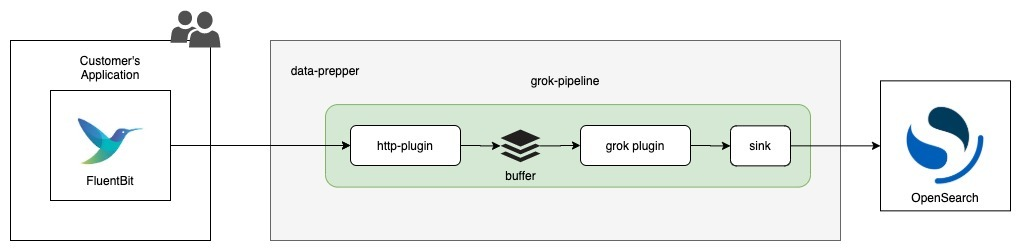
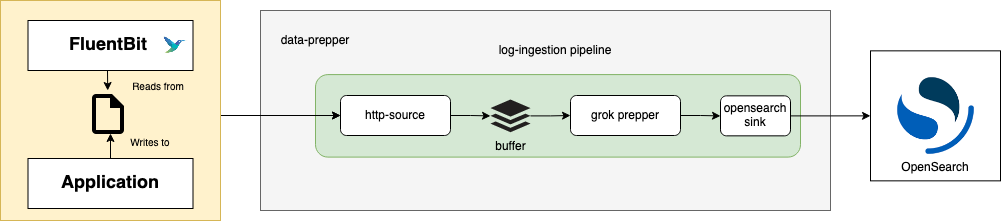
Log analytics getting started (#573)
Updated demo guide for running Data Prepper through Docker, and with FluentBit and OpenSearch through the same docker-compose; Created first draft for Getting Started Guide with Log Analytics

diff --git a/examples/log-ingestion/log_ingestion_demo_guide.md b/examples/log-ingestion/log_ingestion_demo_guide.md
@@ -1,6 +1,6 @@
 # Data Prepper Log Ingestion Demo Guide
 
-This is a guide that will walk users through setting up a sample Data Prepper for log ingestion. 
+This is a guide that will walk users through setting up a sample Data Prepper pipeline for log ingestion. 
 This guide will go through the steps required to create a simple log ingestion pipeline from \
 Fluent Bit → Data Prepper → OpenSearch. This log ingestion flow is shown in the diagram below.
 
@@ -8,113 +8,80 @@ Fluent Bit → Data Prepper → OpenSearch. This log ingestion flow is shown in 
 
 ## List of Components
 
-- An OpenSearch domain running locally. The steps to get started with OpenSearch can be found [here](https://opensearch.org/downloads.html).
-- Data Prepper, which includes a `pipeline.yaml` and a `data-prepper-config.yaml` 
+- An OpenSearch domain running through Docker
 - A FluentBit agent running through Docker
+- Data Prepper, which includes a `log_pipeline.yaml`
 - An Apache Log Generator in the form of a python script
 
-### Data Prepper Setup
+### FluentBit And OpenSearch Setup
 
-1. Pull down the Data Prepper repository
+1. Take a look at the [docker-compose.yaml](docker-compose.yaml). This `docker-compose.yaml` will pull the FluentBit and OpenSearch Docker images and run them in the `log-ingestion_opensearch-net` Docker network.
 
-```
-git clone https://github.com/opensearch-project/data-prepper.git
-```
 
-2. Build the Data Prepper jar. You must have JDK 14 or 15 in order to build successfully. For more info on building from source, see the 
-[Data Prepper Developer Guide](../../docs/developer_guide.md)
+2. Now take a look at the [fluent-bit.conf](fluent-bit.conf). This config will tell FluentBit to tail the `/var/log/test.log` file for logs, and uses the FluentBit http output plugin to forward these logs to the http source of Data Prepper, which runs by default on port 2021. The `fluent-bit.conf` file
+is mounted as a Docker volume through the `docker-compose.yaml`.
+
+
+3. An empty file named `test.log` has been created. This file is also mounted through the  `docker-compose.yaml`, and will be the file
+FluentBit is tailing to collect logs from.
    
-```
-./gradlew build`
-```
-   
-3. Create the following pipeline.yaml. This configuration will take logs sent to the [http source](../../data-prepper-plugins/http-source), 
-process them with the [Grok Prepper](../../data-prepper-plugins/grok-prepper) by matching against the `COMMONAPACHELOG` pattern, 
-and send the processed logs to a local [OpenSearch sink](../../data-prepper-plugins/opensearch) to an index named `grok-prepper`. 
 
-```yaml
-grok-pipeline:
-  source:
-    http:
-  prepper:
-    - grok:
-        match:
-          log: [ "%{COMMONAPACHELOG}" ]
-  sink:
-    - opensearch:
-        hosts: [ "https://localhost:9200" ]
-        username: admin
-        password: admin
-        index: grok-prepper
-```
-   
-4. Create the following `data-prepper-config.yaml`
-
-```yaml
-ssl: false
-```
-
-5. From the root of the data prepper repo, 
-   run the Data Prepper jar with the `pipeline.yaml` and `data-prepper-config.yaml` as command line arguments.
-   
-```
-java -jar data-prepper-core/build/libs/data-prepper-core-1.2.0-SNAPSHOT.jar /full/path/to/pipeline.yaml /full/path/to/data-prepper-config.yaml
-```
-
-If you see an error that looks like this: `Caused by: java.lang.RuntimeException: Connection refused`, then that probably means you don't have OpenSearch running locally. 
-Go [here](https://opensearch.org/downloads.html) to do so before moving on to the next step of this guide.
-
-If Data Prepper is running correctly, you should see something similar to the following line as the latest output in your terminal.
-
-```
-INFO  com.amazon.dataprepper.pipeline.ProcessWorker - grok-pipeline Worker: No records received from buffer
-```
-
-### FluentBit Setup
-
-The FluentBit setup includes a `docker-compose.yaml`, a `fluent-bit.conf`, and a log file which corresponds to where FluentBit will look for logs.
-
-1. Create the following `docker-compose.yaml`. This `docker-compose.yaml` will pull the FluentBit Docker image, and will mount your `fluent-bit.conf` and log file to this Docker image. In this case, the log file is named `test.log`.
-
-```yaml
-version: "3.7"
-
-services:
-  fluent-bit:
-    image: fluent/fluent-bit
-    volumes:
-      - ./fluent-bit.conf:/fluent-bit/etc/fluent-bit.conf
-      - ./test.log:/var/log/test.log
-```
-
-2. Create the following `fluent-bit.conf`. This config will tell FluentBit to tail the `/var/log/test.log` file for logs, and uses the FluentBit http output plugin to forward these logs to the http source of Data Prepper, which runs by default on port 2021.
-
-```
-[INPUT]
-  name                  tail
-  refresh_interval      5
-  path                  /var/log/test.log
-  read_from_head        true
-
-[OUTPUT]
-  Name http
-  Match *
-  Host host.docker.internal
-  Port 2021
-  URI /log/ingest
-  Format json
-```
-
-3. Create an empty file named `test.log`. This file can be named whatever you like, but the `docker-compose.yaml` will need to be updated accordingly.
-
-
-4. Now that you have the `docker-compose.yaml`, `fluent-bit.conf`, and the `test.log` files, FluentBit is ready for log ingestion. Start FluentBit with
+4. Now that you understand a bit more about how FluentBit and OpenSearch are set up, run them with:
 
 ```
 docker-compose up
 ```
 
+### Data Prepper Setup
+
+1. Build the Data Prepper 1.2 SNAPSHOT Docker image by following the instructions found [here](../../release/docker/README.md).
+
+ 
+2. Take a look at [log_pipeline.yaml](log_pipeline.yaml). This configuration will take logs sent to the [http source](../../data-prepper-plugins/http-source), 
+process them with the [Grok Prepper](../../data-prepper-plugins/grok-prepper) by matching against the `COMMONAPACHELOG` pattern, 
+and send the processed logs to a local [OpenSearch sink](../../data-prepper-plugins/opensearch) to an index named `apache_logs`.
+
+
+3. Run the Data Prepper docker image with the `log_pipeline.yaml` from step 2 passed in. This command attaches the Data Prepper Docker image to the Docker network `log-ingestion_opensearch_net` so that 
+FluentBit is able to send logs to the http source of Data Prepper.
+
+```
+docker run --name data-prepper -v /full/path/to/log_pipeline.yaml:/usr/share/data-prepper/pipelines.yaml --network "log-ingestion_opensearch-net" opensearch-data-prepper:1.2.0-SNAPSHOT
+```
+
+If Data Prepper is running correctly, you should see something similar to the following line as the latest output in your terminal.
+
+```
+INFO  com.amazon.dataprepper.pipeline.ProcessWorker - log-pipeline Worker: No records received from buffer
+```
+
 ### Apache Log Generator
+
+Note that if you just want to see the log ingestion workflow in action, you can simply copy and paste some logs into the `test.log` file yourself without using the Python [Fake Apache Log Generator](https://github.com/graytaylor0/Fake-Apache-Log-Generator). 
+Here is a sample batch of randomly generated Apache Logs if you choose to take this route.
+
+```
+63.173.168.120 - - [04/Nov/2021:15:07:25 -0500] "GET /search/tag/list HTTP/1.0" 200 5003
+71.52.186.114 - - [04/Nov/2021:15:07:27 -0500] "GET /search/tag/list HTTP/1.0" 200 5015
+223.195.133.151 - - [04/Nov/2021:15:07:29 -0500] "GET /posts/posts/explore HTTP/1.0" 200 5049
+249.189.38.1 - - [04/Nov/2021:15:07:31 -0500] "GET /app/main/posts HTTP/1.0" 200 5005
+36.155.45.2 - - [04/Nov/2021:15:07:33 -0500] "GET /search/tag/list HTTP/1.0" 200 5001
+4.54.90.166 - - [04/Nov/2021:15:07:35 -0500] "DELETE /wp-content HTTP/1.0" 200 4965
+214.246.93.195 - - [04/Nov/2021:15:07:37 -0500] "GET /apps/cart.jsp?appID=4401 HTTP/1.0" 200 5008
+72.108.181.108 - - [04/Nov/2021:15:07:39 -0500] "GET /wp-content HTTP/1.0" 200 5020
+194.43.128.202 - - [04/Nov/2021:15:07:41 -0500] "GET /app/main/posts HTTP/1.0" 404 4943
+14.169.135.206 - - [04/Nov/2021:15:07:43 -0500] "DELETE /wp-content HTTP/1.0" 200 4985
+208.0.179.237 - - [04/Nov/2021:15:07:45 -0500] "GET /explore HTTP/1.0" 200 4953
+134.29.61.53 - - [04/Nov/2021:15:07:47 -0500] "GET /explore HTTP/1.0" 200 4937
+213.229.161.38 - - [04/Nov/2021:15:07:49 -0500] "PUT /posts/posts/explore HTTP/1.0" 200 5092
+82.41.77.121 - - [04/Nov/2021:15:07:51 -0500] "GET /app/main/posts HTTP/1.0" 200 5016
+```
+
+Additionally, if you just want to test a single log, you can send it to `test.log` directly with:
+
+```
+echo '63.173.168.120 - - [04/Nov/2021:15:07:25 -0500] "GET /search/tag/list HTTP/1.0" 200 5003' >> test.log
+```
 
 In order to simulate an application generating logs, a simple python script will be used. This script only runs with python 2. You can download this script by running
 
@@ -140,17 +107,17 @@ You should now be able to check your terminal output for FluentBit and Data Prep
 The following FluentBit ouptut means that FluentBit was able to forward logs to the Data Prepper http source
 
 ```
-fluent-bit_1  | [2021/10/30 17:16:39] [ info] [output:http:http.0] host.docker.internal:2021, HTTP status=200
+fluent-bit  | [2021/10/30 17:16:39] [ info] [output:http:http.0] host.docker.internal:2021, HTTP status=200
 ```
 
 The following Data Prepper output indicates that Data Prepper is successfully processing logs from FluentBit
 
 ```
-2021-10-30T12:17:17,474 [grok-pipeline-prepper-worker-1-thread-1] INFO  com.amazon.dataprepper.pipeline.ProcessWorker -  grok-pipeline Worker: Processing 2 records from buffer
+2021-10-30T12:17:17,474 [log-pipeline-prepper-worker-1-thread-1] INFO  com.amazon.dataprepper.pipeline.ProcessWorker -  log-pipeline Worker: Processing 2 records from buffer
 ```
 
 Finally, head into OpenSearch Dashboards ([http://localhost:5601](http://localhost:5601)) to view your processed logs.
 You will need to create an index pattern for the index provided in your `pipeline.yaml` in order to see them. You can do this by going to
-`Stack Management -> Index Pattterns`. Now start typing in the name of the index you sent logs to (in this guide it was `grok-prepper`),
+`Stack Management -> Index Pattterns`. Now start typing in the name of the index you sent logs to (in this guide it was `apache_logs`),
 and you should see that the index pattern matches 1 source. Click `Create Index Pattern`, and you should then be able to go back to 
 the `Discover` tab to see your processed logs. 

diff --git a/docs/log_analytics.md b/docs/log_analytics.md
@@ -1,0 +1,128 @@
+# Log Analytics
+
+## Introduction
+
+Data Prepper is an extendable, configurable, and scalable solution for log ingestion into OpenSearch and Amazon OpenSearch Service.
+Currently, Data Prepper is focused on receiving logs from [FluentBit](https://fluentbit.io/) via the 
+[Http Source](https://github.com/opensearch-project/data-prepper/blob/main/data-prepper-plugins/http-source/README.md), and processing those logs with a [Grok Prepper](https://github.com/opensearch-project/data-prepper/blob/main/data-prepper-plugins/grok-prepper/README.md) before ingesting them into OpenSearch through the [OpenSearch sink](https://github.com/opensearch-project/data-prepper/blob/main/data-prepper-plugins/opensearch/README.md).
+
+Here is all of the components for log analytics with FluentBit, Data Prepper, and OpenSearch:
+<br />
+<br />
+![Log Analytics Components](images/LogAnalyticsComponents.png)
+<br />
+<br />
+
+In your application environment you will have to run FluentBit.
+FluentBit can be containerized through Kubernetes, Docker, or Amazon ECS.
+It can also be run as an agent on EC2.
+You should configure the [FluentBit http output plugin](https://docs.fluentbit.io/manual/pipeline/outputs/http) to export log data to Data Prepper.
+You will then have to deploy Data Prepper as an intermediate component and configure it to send
+the enriched log data to your OpenSearch cluster or Amazon OpenSearch Service domain. From there, you can
+use OpenSearch Dashboards to perform more intensive visualization and analysis.
+
+## Log Analytics Pipeline
+
+Log analytic pipelines in Data Prepper are extremely customizable. A simple pipeline is shown below.
+
+![](images/Log_Ingestion_FluentBit_DataPrepper_OpenSearch.jpg)
+
+## Http Source
+
+The [Http Source](https://github.com/opensearch-project/data-prepper/blob/main/data-prepper-plugins/http-source/README.md) accepts log data from FluentBit. 
+More specifically, this source accepts log data in a JSON array format. 
+This source supports industry-standard encryption in the form of TLS/HTTPS and HTTP basic authentication.
+
+## Preppers
+
+The Data Prepper 1.2 release will come with a [Grok Prepper](https://github.com/opensearch-project/data-prepper/blob/main/data-prepper-plugins/grok-prepper/README.md).
+The Grok Prepper can be an invaluable tool to structure and extract important fields from your logs in order to make them more queryable.
+
+The Grok Prepper comes with a wide variety of [default patterns](https://github.com/thekrakken/java-grok/blob/master/src/main/resources/patterns/patterns) that match against common log formats like apcahe logs or syslogs, 
+but can easily accept any custom patterns that cater to your specific log format.
+
+There are a lot of complex Grok features that will not be discussed here, so please read the documentation if you are interested.
+
+## OpenSearch sink
+
+We have a generic sink that writes the data to OpenSearch as the destination. The [opensearch sink](https://github.com/opensearch-project/data-prepper/blob/main/data-prepper-plugins/opensearch/README.md) has configuration options related to an OpenSearch cluster like endpoint, SSL/Username, index name, index template, index state management, etc.
+
+## Pipeline Configuration
+
+Create a file, `pipeline.yaml`. Paste the following example pipeline in there.
+
+```yaml
+log-pipeline:
+  source:
+    http:
+      # This is a simple http source with SSL disabled.
+      # However, you can easily enable SSL and http basic authentication for this source
+      ssl: false
+      # The default port that will listen for incoming logs
+      port: 2021
+  prepper:
+    - grok:
+        match:
+          # This will match logs with a "log" key against the COMMONAPACHELOG pattern (ex: { "log": "actual apache log..." } )
+          # You should change this to match what your logs look like. See the grok documenation to get started.
+          log: [ "%{COMMONAPACHELOG}" ]
+  sink:
+    - opensearch:
+        hosts: [ "https://localhost:9200" ]
+        # Change to your credentials
+        username: "admin"
+        password: "admin"
+        # Add a certificate file if you are accessing an OpenSearch cluster with a self-signed certificate  
+        #cert: /path/to/cert
+        # If you are connecting to an Amazon OpenSearch Service domain without
+        # Fine-Grained Access Control, enable these settings. Comment out the
+        # username and password above.
+        #aws_sigv4: true
+        #aws_region: us-east-1
+        # Since we are grok matching for apache logs, it makes sense to send them to an OpenSearch index named apache_logs.
+        # You should change this to correspond with how your OpenSearch indices are set up.
+        index: apache_logs
+```
+
+This pipeline configuration is an example of apache log ingestion. Don't forget that you can easily configure the Grok Prepper for your own custom logs.
+
+You will need to modify the configuration above for your OpenSearch cluster.
+
+The main changes you will need to make are:
+
+* `hosts` - Set to your hosts
+* `index` - Change this to the OpenSearch index you want to send logs to
+* `username`- Provide the OpenSearch username
+* `password` - Provide your OpenSearch password
+* `aws_sigv4` - If you use Amazon OpenSearch Service with AWS signing, set this to true. It will sign requests with the default AWS credentials provider.
+* `aws_region` - If you use Amazon OpenSearch Service with AWS signing, set this value to your region.
+## FluentBit
+
+You will have to run FluentBit in your service environment. You can find the installation guide of FluentBit [here](https://docs.fluentbit.io/manual/installation/getting-started-with-fluent-bit).
+Please ensure that you can configure the [FluentBit http output plugin](https://docs.fluentbit.io/manual/pipeline/outputs/http) to your Data Prepper Http Source. Below is an example `fluent-bit.conf` that tails a log file named `test.log` and forwards it to a locally running Data Prepper's http source, which runs 
+by default on port 2021. Note that you should adjust the file `path`, output `Host` and `Port` according to how and where you have FluentBit and Data Prepper running.
+
+```
+[INPUT]
+  name                  tail
+  refresh_interval      5
+  path                  test.log
+  read_from_head        true
+
+[OUTPUT]
+  Name http
+  Match *
+  Host localhost
+  Port 2021
+  URI /log/ingest
+  Format json
+```
+
+## Next Steps
+
+Follow the [Log Ingestion Demo Guide](../examples/log-ingestion/log_ingestion_demo_guide.md) to get a specific example of apache log ingestion from `FluentBit -> Data Prepper -> OpenSearch` running through Docker.
+
+In the future, Data Prepper will contain additional sources and preppers which will make more complex log analytic pipelines available. Check out our [Roadmap](https://github.com/opensearch-project/data-prepper/projects/1) to see what is coming.  
+
+If there is a specifc source, prepper, or sink that you would like to include in your log analytic workflow, and it is not currently on the Roadmap, please bring it to our attention by making a Github issue. Additionally, if you
+are interested in contributing, see our [Contribuing Guidelines](../CONTRIBUTING.md) as well as our [Developer Guide](developer_guide.md) and [Plugin Development Guide](plugin_development.md).

diff --git a/docs/getting_started.md b/docs/getting_started.md
@@ -35,6 +35,7 @@ You will configure two files:
 Depending on what you want to do, we have a few different guides to configuring Data Prepper.
 
 * [Trace Analytics](trace_analytics.md) - Learn how to setup Data Prepper for trace observability
+* [Log Ingestion](log_analytics.md) - Learn how to setup Data Prepper for log observability
 * [Simple Pipeline](simple_pipelines.md) - Learn the basics of Data Prepper pipelines with some simple configurations.
 
 ## Running
@@ -66,6 +67,8 @@ how to configure the server.
 
 Trace Analytics is an important Data Prepper use case. If you haven't yet configure it,
 please visit the [Trace Analytics documentation](trace_analytics.md).
+
+Log Ingestion is also an important Data Prepper use case. To learn more, visit the [Log Ingestion Documentation](log_analytics.md).
 
 To monitor Data Prepper, please read the [Monitoring](monitoring.md) page.
 

diff --git a/docs/trace_analytics.md b/docs/trace_analytics.md
@@ -10,10 +10,10 @@ The transformed trace data is the visualized using the
 [Trace Analytics OpenSearch Dashboards plugin](https://opensearch.org/docs/monitoring-plugins/trace/ta-dashboards/),
 which provides at-a-glance visibility into your application performance, along with the ability to drill down on individual traces.
 
-Here is how all the components work in trace analytics,
+Here is how all the components work in trace analytics:
 <br />
 <br />
-![Trace Analytics Pipeline](images/Components.jpg)
+![Trace Analytics Pipeline](images/TraceAnalyticsComponents.png)
 <br />
 <br />
 
